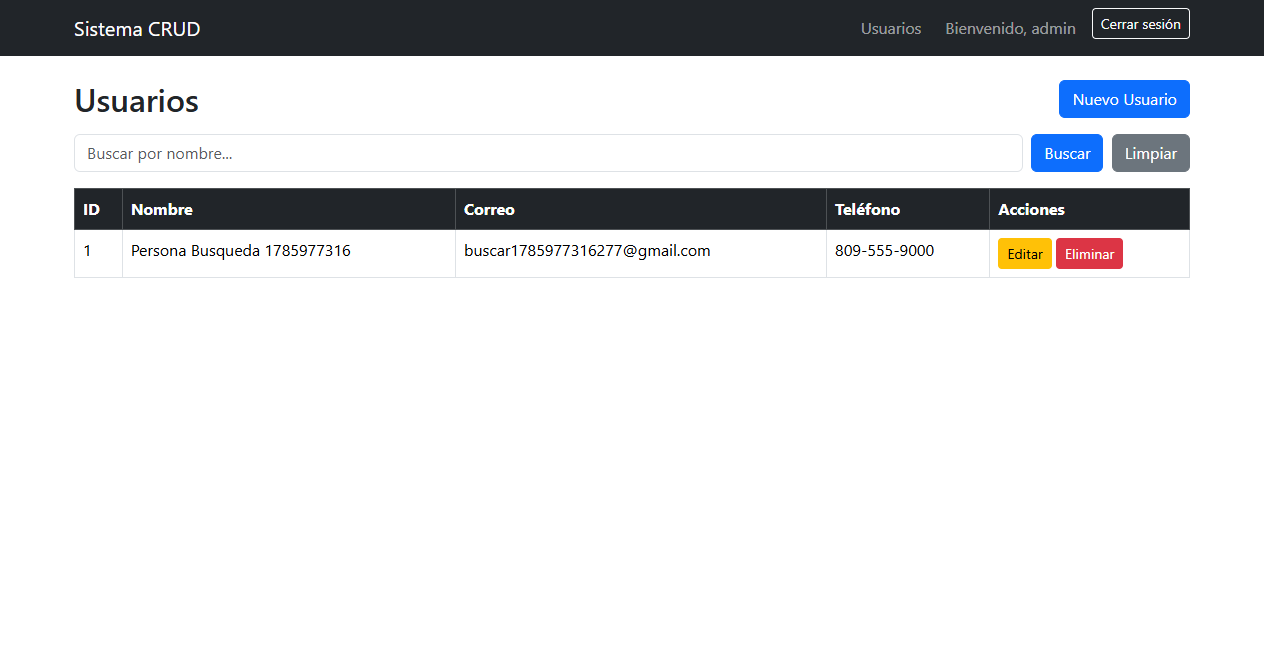
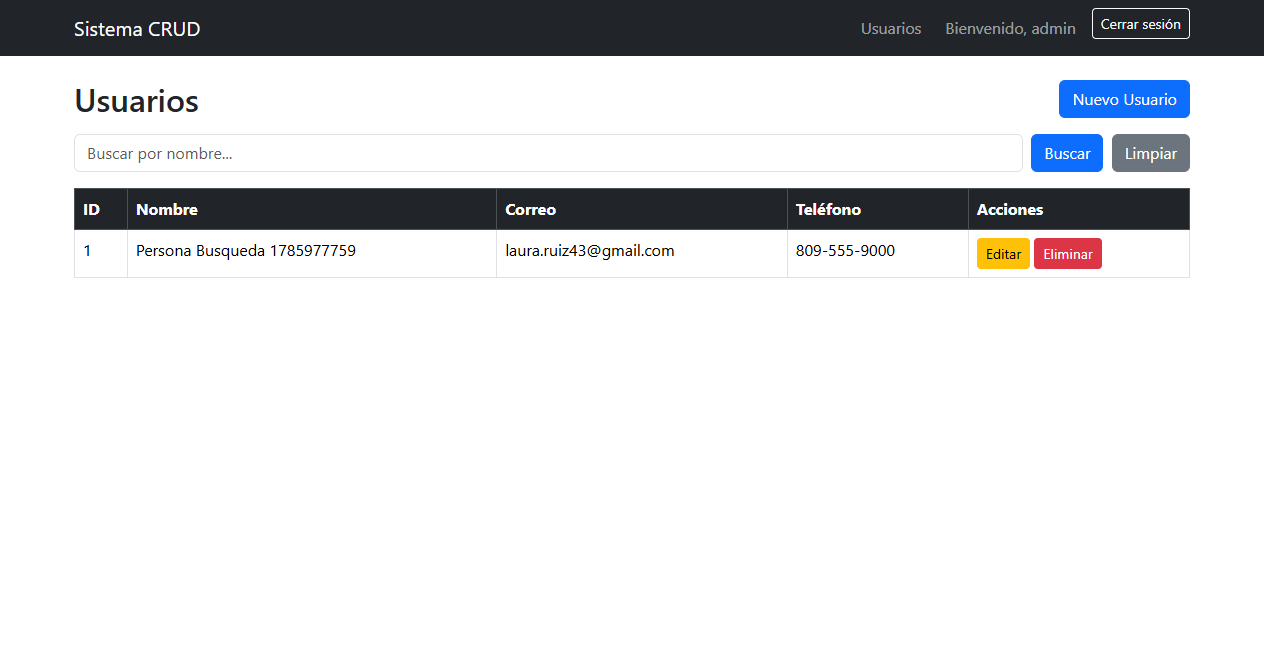
Correos de prueba con nombres reales y regenerar evidencias

diff --git a/report/report.html b/report/report.html
@@ -328,7 +328,7 @@ div.media {
   </head>
   <body>
     <h1 id="title">report.html</h1>
-    <p>Report generated on 05-Aug-2026 at 20:50:33 by <a href="https://pypi.python.org/pypi/pytest-html">pytest-html</a>
+    <p>Report generated on 05-Aug-2026 at 20:57:56 by <a href="https://pypi.python.org/pypi/pytest-html">pytest-html</a>
         v4.2.0</p>
     <div id="environment-header">
       <h2>Environment</h2>
@@ -383,7 +383,7 @@ div.media {
         <h2>Summary</h2>
         <div class="additional-summary prefix">
         </div>
-        <p class="run-count">18 tests took 00:02:12.</p>
+        <p class="run-count">18 tests took 00:02:03.</p>
         <p class="filter">(Un)check the boxes to filter the results.</p>
         <div class="summary__reload">
           <div class="summary__reload__button hidden" onclick="location.reload()">
@@ -431,7 +431,7 @@ div.media {
       </thead>
     </table>
   <footer>
-    <div id="data-container" data-jsonblob="{&#34;environment&#34;: {&#34;Python&#34;: &#34;3.14.6&#34;, &#34;Platform&#34;: &#34;Windows-10-10.0.19045-SP0&#34;, &#34;Packages&#34;: {&#34;pytest&#34;: &#34;9.1.1&#34;, &#34;pluggy&#34;: &#34;1.6.0&#34;}, &#34;Plugins&#34;: {&#34;html&#34;: &#34;4.2.0&#34;, &#34;metadata&#34;: &#34;3.1.1&#34;}}, &#34;tests&#34;: {&#34;tests/test_buscar_usuario.py::TestBuscarUsuario::test_buscar_usuario_encontrado&#34;: [{&#34;extras&#34;: [], &#34;result&#34;: &#34;Passed&#34;, &#34;testId&#34;: &#34;tests/test_buscar_usuario.py::TestBuscarUsuario::test_buscar_usuario_encontrado&#34;, &#34;duration&#34;: &#34;00:00:17&#34;, &#34;resultsTableRow&#34;: [&#34;&lt;td class=\&#34;col-result\&#34;&gt;Passed&lt;/td&gt;&#34;, &#34;&lt;td class=\&#34;col-testId\&#34;&gt;tests/test_buscar_usuario.py::TestBuscarUsuario::test_buscar_usuario_encontrado&lt;/td&gt;&#34;, &#34;&lt;td class=\&#34;col-duration\&#34;&gt;00:00:17&lt;/td&gt;&#34;, &#34;&lt;td class=\&#34;col-links\&#34;&gt;&lt;/td&gt;&#34;], &#34;log&#34;: &#34;No log output captured.&#34;}], &#34;tests/test_buscar_usuario.py::TestBuscarUsuario::test_buscar_usuario_sin_resultados&#34;: [{&#34;extras&#34;: [], &#34;result&#34;: &#34;Passed&#34;, &#34;testId&#34;: &#34;tests/test_buscar_usuario.py::TestBuscarUsuario::test_buscar_usuario_sin_resultados&#34;, &#34;duration&#34;: &#34;00:00:07&#34;, &#34;resultsTableRow&#34;: [&#34;&lt;td class=\&#34;col-result\&#34;&gt;Passed&lt;/td&gt;&#34;, &#34;&lt;td class=\&#34;col-testId\&#34;&gt;tests/test_buscar_usuario.py::TestBuscarUsuario::test_buscar_usuario_sin_resultados&lt;/td&gt;&#34;, &#34;&lt;td class=\&#34;col-duration\&#34;&gt;00:00:07&lt;/td&gt;&#34;, &#34;&lt;td class=\&#34;col-links\&#34;&gt;&lt;/td&gt;&#34;], &#34;log&#34;: &#34;No log output captured.&#34;}], &#34;tests/test_buscar_usuario.py::TestBuscarUsuario::test_busqueda_vacia_muestra_todos&#34;: [{&#34;extras&#34;: [], &#34;result&#34;: &#34;Passed&#34;, &#34;testId&#34;: &#34;tests/test_buscar_usuario.py::TestBuscarUsuario::test_busqueda_vacia_muestra_todos&#34;, &#34;duration&#34;: &#34;00:00:07&#34;, &#34;resultsTableRow&#34;: [&#34;&lt;td class=\&#34;col-result\&#34;&gt;Passed&lt;/td&gt;&#34;, &#34;&lt;td class=\&#34;col-testId\&#34;&gt;tests/test_buscar_usuario.py::TestBuscarUsuario::test_busqueda_vacia_muestra_todos&lt;/td&gt;&#34;, &#34;&lt;td class=\&#34;col-duration\&#34;&gt;00:00:07&lt;/td&gt;&#34;, &#34;&lt;td class=\&#34;col-links\&#34;&gt;&lt;/td&gt;&#34;], &#34;log&#34;: &#34;No log output captured.&#34;}], &#34;tests/test_crear_usuario.py::TestCrearUsuario::test_crear_usuario_correcto&#34;: [{&#34;extras&#34;: [], &#34;result&#34;: &#34;Passed&#34;, &#34;testId&#34;: &#34;tests/test_crear_usuario.py::TestCrearUsuario::test_crear_usuario_correcto&#34;, &#34;duration&#34;: &#34;00:00:07&#34;, &#34;resultsTableRow&#34;: [&#34;&lt;td class=\&#34;col-result\&#34;&gt;Passed&lt;/td&gt;&#34;, &#34;&lt;td class=\&#34;col-testId\&#34;&gt;tests/test_crear_usuario.py::TestCrearUsuario::test_crear_usuario_correcto&lt;/td&gt;&#34;, &#34;&lt;td class=\&#34;col-duration\&#34;&gt;00:00:07&lt;/td&gt;&#34;, &#34;&lt;td class=\&#34;col-links\&#34;&gt;&lt;/td&gt;&#34;], &#34;log&#34;: &#34;No log output captured.&#34;}], &#34;tests/test_crear_usuario.py::TestCrearUsuario::test_crear_usuario_correo_duplicado&#34;: [{&#34;extras&#34;: [], &#34;result&#34;: &#34;Passed&#34;, &#34;testId&#34;: &#34;tests/test_crear_usuario.py::TestCrearUsuario::test_crear_usuario_correo_duplicado&#34;, &#34;duration&#34;: &#34;00:00:07&#34;, &#34;resultsTableRow&#34;: [&#34;&lt;td class=\&#34;col-result\&#34;&gt;Passed&lt;/td&gt;&#34;, &#34;&lt;td class=\&#34;col-testId\&#34;&gt;tests/test_crear_usuario.py::TestCrearUsuario::test_crear_usuario_correo_duplicado&lt;/td&gt;&#34;, &#34;&lt;td class=\&#34;col-duration\&#34;&gt;00:00:07&lt;/td&gt;&#34;, &#34;&lt;td class=\&#34;col-links\&#34;&gt;&lt;/td&gt;&#34;], &#34;log&#34;: &#34;No log output captured.&#34;}], &#34;tests/test_crear_usuario.py::TestCrearUsuario::test_crear_usuario_nombre_vacio&#34;: [{&#34;extras&#34;: [], &#34;result&#34;: &#34;Passed&#34;, &#34;testId&#34;: &#34;tests/test_crear_usuario.py::TestCrearUsuario::test_crear_usuario_nombre_vacio&#34;, &#34;duration&#34;: &#34;00:00:06&#34;, &#34;resultsTableRow&#34;: [&#34;&lt;td class=\&#34;col-result\&#34;&gt;Passed&lt;/td&gt;&#34;, &#34;&lt;td class=\&#34;col-testId\&#34;&gt;tests/test_crear_usuario.py::TestCrearUsuario::test_crear_usuario_nombre_vacio&lt;/td&gt;&#34;, &#34;&lt;td class=\&#34;col-duration\&#34;&gt;00:00:06&lt;/td&gt;&#34;, &#34;&lt;td class=\&#34;col-links\&#34;&gt;&lt;/td&gt;&#34;], &#34;log&#34;: &#34;No log output captured.&#34;}], &#34;tests/test_editar_usuario.py::TestEditarUsuario::test_editar_usuario_correcto&#34;: [{&#34;extras&#34;: [], &#34;result&#34;: &#34;Passed&#34;, &#34;testId&#34;: &#34;tests/test_editar_usuario.py::TestEditarUsuario::test_editar_usuario_correcto&#34;, &#34;duration&#34;: &#34;00:00:07&#34;, &#34;resultsTableRow&#34;: [&#34;&lt;td class=\&#34;col-result\&#34;&gt;Passed&lt;/td&gt;&#34;, &#34;&lt;td class=\&#34;col-testId\&#34;&gt;tests/test_editar_usuario.py::TestEditarUsuario::test_editar_usuario_correcto&lt;/td&gt;&#34;, &#34;&lt;td class=\&#34;col-duration\&#34;&gt;00:00:07&lt;/td&gt;&#34;, &#34;&lt;td class=\&#34;col-links\&#34;&gt;&lt;/td&gt;&#34;], &#34;log&#34;: &#34;No log output captured.&#34;}], &#34;tests/test_editar_usuario.py::TestEditarUsuario::test_editar_usuario_correo_duplicado&#34;: [{&#34;extras&#34;: [], &#34;result&#34;: &#34;Passed&#34;, &#34;testId&#34;: &#34;tests/test_editar_usuario.py::TestEditarUsuario::test_editar_usuario_correo_duplicado&#34;, &#34;duration&#34;: &#34;00:00:08&#34;, &#34;resultsTableRow&#34;: [&#34;&lt;td class=\&#34;col-result\&#34;&gt;Passed&lt;/td&gt;&#34;, &#34;&lt;td class=\&#34;col-testId\&#34;&gt;tests/test_editar_usuario.py::TestEditarUsuario::test_editar_usuario_correo_duplicado&lt;/td&gt;&#34;, &#34;&lt;td class=\&#34;col-duration\&#34;&gt;00:00:08&lt;/td&gt;&#34;, &#34;&lt;td class=\&#34;col-links\&#34;&gt;&lt;/td&gt;&#34;], &#34;log&#34;: &#34;No log output captured.&#34;}], &#34;tests/test_editar_usuario.py::TestEditarUsuario::test_editar_usuario_nombre_vacio&#34;: [{&#34;extras&#34;: [], &#34;result&#34;: &#34;Passed&#34;, &#34;testId&#34;: &#34;tests/test_editar_usuario.py::TestEditarUsuario::test_editar_usuario_nombre_vacio&#34;, &#34;duration&#34;: &#34;00:00:07&#34;, &#34;resultsTableRow&#34;: [&#34;&lt;td class=\&#34;col-result\&#34;&gt;Passed&lt;/td&gt;&#34;, &#34;&lt;td class=\&#34;col-testId\&#34;&gt;tests/test_editar_usuario.py::TestEditarUsuario::test_editar_usuario_nombre_vacio&lt;/td&gt;&#34;, &#34;&lt;td class=\&#34;col-duration\&#34;&gt;00:00:07&lt;/td&gt;&#34;, &#34;&lt;td class=\&#34;col-links\&#34;&gt;&lt;/td&gt;&#34;], &#34;log&#34;: &#34;No log output captured.&#34;}], &#34;tests/test_eliminar_usuario.py::TestEliminarUsuario::test_eliminar_usuario_correcto&#34;: [{&#34;extras&#34;: [], &#34;result&#34;: &#34;Passed&#34;, &#34;testId&#34;: &#34;tests/test_eliminar_usuario.py::TestEliminarUsuario::test_eliminar_usuario_correcto&#34;, &#34;duration&#34;: &#34;00:00:07&#34;, &#34;resultsTableRow&#34;: [&#34;&lt;td class=\&#34;col-result\&#34;&gt;Passed&lt;/td&gt;&#34;, &#34;&lt;td class=\&#34;col-testId\&#34;&gt;tests/test_eliminar_usuario.py::TestEliminarUsuario::test_eliminar_usuario_correcto&lt;/td&gt;&#34;, &#34;&lt;td class=\&#34;col-duration\&#34;&gt;00:00:07&lt;/td&gt;&#34;, &#34;&lt;td class=\&#34;col-links\&#34;&gt;&lt;/td&gt;&#34;], &#34;log&#34;: &#34;No log output captured.&#34;}], &#34;tests/test_eliminar_usuario.py::TestEliminarUsuario::test_eliminar_usuario_inexistente&#34;: [{&#34;extras&#34;: [], &#34;result&#34;: &#34;Passed&#34;, &#34;testId&#34;: &#34;tests/test_eliminar_usuario.py::TestEliminarUsuario::test_eliminar_usuario_inexistente&#34;, &#34;duration&#34;: &#34;00:00:06&#34;, &#34;resultsTableRow&#34;: [&#34;&lt;td class=\&#34;col-result\&#34;&gt;Passed&lt;/td&gt;&#34;, &#34;&lt;td class=\&#34;col-testId\&#34;&gt;tests/test_eliminar_usuario.py::TestEliminarUsuario::test_eliminar_usuario_inexistente&lt;/td&gt;&#34;, &#34;&lt;td class=\&#34;col-duration\&#34;&gt;00:00:06&lt;/td&gt;&#34;, &#34;&lt;td class=\&#34;col-links\&#34;&gt;&lt;/td&gt;&#34;], &#34;log&#34;: &#34;No log output captured.&#34;}], &#34;tests/test_eliminar_usuario.py::TestEliminarUsuario::test_eliminar_usuario_cancelado&#34;: [{&#34;extras&#34;: [], &#34;result&#34;: &#34;Passed&#34;, &#34;testId&#34;: &#34;tests/test_eliminar_usuario.py::TestEliminarUsuario::test_eliminar_usuario_cancelado&#34;, &#34;duration&#34;: &#34;00:00:06&#34;, &#34;resultsTableRow&#34;: [&#34;&lt;td class=\&#34;col-result\&#34;&gt;Passed&lt;/td&gt;&#34;, &#34;&lt;td class=\&#34;col-testId\&#34;&gt;tests/test_eliminar_usuario.py::TestEliminarUsuario::test_eliminar_usuario_cancelado&lt;/td&gt;&#34;, &#34;&lt;td class=\&#34;col-duration\&#34;&gt;00:00:06&lt;/td&gt;&#34;, &#34;&lt;td class=\&#34;col-links\&#34;&gt;&lt;/td&gt;&#34;], &#34;log&#34;: &#34;No log output captured.&#34;}], &#34;tests/test_listar_usuarios.py::TestListarUsuarios::test_listar_usuario_creado&#34;: [{&#34;extras&#34;: [], &#34;result&#34;: &#34;Passed&#34;, &#34;testId&#34;: &#34;tests/test_listar_usuarios.py::TestListarUsuarios::test_listar_usuario_creado&#34;, &#34;duration&#34;: &#34;00:00:07&#34;, &#34;resultsTableRow&#34;: [&#34;&lt;td class=\&#34;col-result\&#34;&gt;Passed&lt;/td&gt;&#34;, &#34;&lt;td class=\&#34;col-testId\&#34;&gt;tests/test_listar_usuarios.py::TestListarUsuarios::test_listar_usuario_creado&lt;/td&gt;&#34;, &#34;&lt;td class=\&#34;col-duration\&#34;&gt;00:00:07&lt;/td&gt;&#34;, &#34;&lt;td class=\&#34;col-links\&#34;&gt;&lt;/td&gt;&#34;], &#34;log&#34;: &#34;No log output captured.&#34;}], &#34;tests/test_listar_usuarios.py::TestListarUsuarios::test_listar_sin_resultados&#34;: [{&#34;extras&#34;: [], &#34;result&#34;: &#34;Passed&#34;, &#34;testId&#34;: &#34;tests/test_listar_usuarios.py::TestListarUsuarios::test_listar_sin_resultados&#34;, &#34;duration&#34;: &#34;00:00:06&#34;, &#34;resultsTableRow&#34;: [&#34;&lt;td class=\&#34;col-result\&#34;&gt;Passed&lt;/td&gt;&#34;, &#34;&lt;td class=\&#34;col-testId\&#34;&gt;tests/test_listar_usuarios.py::TestListarUsuarios::test_listar_sin_resultados&lt;/td&gt;&#34;, &#34;&lt;td class=\&#34;col-duration\&#34;&gt;00:00:06&lt;/td&gt;&#34;, &#34;&lt;td class=\&#34;col-links\&#34;&gt;&lt;/td&gt;&#34;], &#34;log&#34;: &#34;No log output captured.&#34;}], &#34;tests/test_listar_usuarios.py::TestListarUsuarios::test_listar_busqueda_extremadamente_larga&#34;: [{&#34;extras&#34;: [], &#34;result&#34;: &#34;Passed&#34;, &#34;testId&#34;: &#34;tests/test_listar_usuarios.py::TestListarUsuarios::test_listar_busqueda_extremadamente_larga&#34;, &#34;duration&#34;: &#34;00:00:06&#34;, &#34;resultsTableRow&#34;: [&#34;&lt;td class=\&#34;col-result\&#34;&gt;Passed&lt;/td&gt;&#34;, &#34;&lt;td class=\&#34;col-testId\&#34;&gt;tests/test_listar_usuarios.py::TestListarUsuarios::test_listar_busqueda_extremadamente_larga&lt;/td&gt;&#34;, &#34;&lt;td class=\&#34;col-duration\&#34;&gt;00:00:06&lt;/td&gt;&#34;, &#34;&lt;td class=\&#34;col-links\&#34;&gt;&lt;/td&gt;&#34;], &#34;log&#34;: &#34;No log output captured.&#34;}], &#34;tests/test_login.py::TestLogin::test_login_correcto&#34;: [{&#34;extras&#34;: [], &#34;result&#34;: &#34;Passed&#34;, &#34;testId&#34;: &#34;tests/test_login.py::TestLogin::test_login_correcto&#34;, &#34;duration&#34;: &#34;00:00:06&#34;, &#34;resultsTableRow&#34;: [&#34;&lt;td class=\&#34;col-result\&#34;&gt;Passed&lt;/td&gt;&#34;, &#34;&lt;td class=\&#34;col-testId\&#34;&gt;tests/test_login.py::TestLogin::test_login_correcto&lt;/td&gt;&#34;, &#34;&lt;td class=\&#34;col-duration\&#34;&gt;00:00:06&lt;/td&gt;&#34;, &#34;&lt;td class=\&#34;col-links\&#34;&gt;&lt;/td&gt;&#34;], &#34;log&#34;: &#34;No log output captured.&#34;}], &#34;tests/test_login.py::TestLogin::test_login_incorrecto&#34;: [{&#34;extras&#34;: [], &#34;result&#34;: &#34;Passed&#34;, &#34;testId&#34;: &#34;tests/test_login.py::TestLogin::test_login_incorrecto&#34;, &#34;duration&#34;: &#34;00:00:06&#34;, &#34;resultsTableRow&#34;: [&#34;&lt;td class=\&#34;col-result\&#34;&gt;Passed&lt;/td&gt;&#34;, &#34;&lt;td class=\&#34;col-testId\&#34;&gt;tests/test_login.py::TestLogin::test_login_incorrecto&lt;/td&gt;&#34;, &#34;&lt;td class=\&#34;col-duration\&#34;&gt;00:00:06&lt;/td&gt;&#34;, &#34;&lt;td class=\&#34;col-links\&#34;&gt;&lt;/td&gt;&#34;], &#34;log&#34;: &#34;No log output captured.&#34;}], &#34;tests/test_login.py::TestLogin::test_login_campos_vacios&#34;: [{&#34;extras&#34;: [], &#34;result&#34;: &#34;Passed&#34;, &#34;testId&#34;: &#34;tests/test_login.py::TestLogin::test_login_campos_vacios&#34;, &#34;duration&#34;: &#34;00:00:06&#34;, &#34;resultsTableRow&#34;: [&#34;&lt;td class=\&#34;col-result\&#34;&gt;Passed&lt;/td&gt;&#34;, &#34;&lt;td class=\&#34;col-testId\&#34;&gt;tests/test_login.py::TestLogin::test_login_campos_vacios&lt;/td&gt;&#34;, &#34;&lt;td class=\&#34;col-duration\&#34;&gt;00:00:06&lt;/td&gt;&#34;, &#34;&lt;td class=\&#34;col-links\&#34;&gt;&lt;/td&gt;&#34;], &#34;log&#34;: &#34;No log output captured.&#34;}]}, &#34;renderCollapsed&#34;: [&#34;passed&#34;], &#34;initialSort&#34;: &#34;result&#34;, &#34;title&#34;: &#34;report.html&#34;}"></div>
+    <div id="data-container" data-jsonblob="{&#34;environment&#34;: {&#34;Python&#34;: &#34;3.14.6&#34;, &#34;Platform&#34;: &#34;Windows-10-10.0.19045-SP0&#34;, &#34;Packages&#34;: {&#34;pytest&#34;: &#34;9.1.1&#34;, &#34;pluggy&#34;: &#34;1.6.0&#34;}, &#34;Plugins&#34;: {&#34;html&#34;: &#34;4.2.0&#34;, &#34;metadata&#34;: &#34;3.1.1&#34;}}, &#34;tests&#34;: {&#34;tests/test_buscar_usuario.py::TestBuscarUsuario::test_buscar_usuario_encontrado&#34;: [{&#34;extras&#34;: [], &#34;result&#34;: &#34;Passed&#34;, &#34;testId&#34;: &#34;tests/test_buscar_usuario.py::TestBuscarUsuario::test_buscar_usuario_encontrado&#34;, &#34;duration&#34;: &#34;00:00:09&#34;, &#34;resultsTableRow&#34;: [&#34;&lt;td class=\&#34;col-result\&#34;&gt;Passed&lt;/td&gt;&#34;, &#34;&lt;td class=\&#34;col-testId\&#34;&gt;tests/test_buscar_usuario.py::TestBuscarUsuario::test_buscar_usuario_encontrado&lt;/td&gt;&#34;, &#34;&lt;td class=\&#34;col-duration\&#34;&gt;00:00:09&lt;/td&gt;&#34;, &#34;&lt;td class=\&#34;col-links\&#34;&gt;&lt;/td&gt;&#34;], &#34;log&#34;: &#34;No log output captured.&#34;}], &#34;tests/test_buscar_usuario.py::TestBuscarUsuario::test_buscar_usuario_sin_resultados&#34;: [{&#34;extras&#34;: [], &#34;result&#34;: &#34;Passed&#34;, &#34;testId&#34;: &#34;tests/test_buscar_usuario.py::TestBuscarUsuario::test_buscar_usuario_sin_resultados&#34;, &#34;duration&#34;: &#34;00:00:06&#34;, &#34;resultsTableRow&#34;: [&#34;&lt;td class=\&#34;col-result\&#34;&gt;Passed&lt;/td&gt;&#34;, &#34;&lt;td class=\&#34;col-testId\&#34;&gt;tests/test_buscar_usuario.py::TestBuscarUsuario::test_buscar_usuario_sin_resultados&lt;/td&gt;&#34;, &#34;&lt;td class=\&#34;col-duration\&#34;&gt;00:00:06&lt;/td&gt;&#34;, &#34;&lt;td class=\&#34;col-links\&#34;&gt;&lt;/td&gt;&#34;], &#34;log&#34;: &#34;No log output captured.&#34;}], &#34;tests/test_buscar_usuario.py::TestBuscarUsuario::test_busqueda_vacia_muestra_todos&#34;: [{&#34;extras&#34;: [], &#34;result&#34;: &#34;Passed&#34;, &#34;testId&#34;: &#34;tests/test_buscar_usuario.py::TestBuscarUsuario::test_busqueda_vacia_muestra_todos&#34;, &#34;duration&#34;: &#34;00:00:06&#34;, &#34;resultsTableRow&#34;: [&#34;&lt;td class=\&#34;col-result\&#34;&gt;Passed&lt;/td&gt;&#34;, &#34;&lt;td class=\&#34;col-testId\&#34;&gt;tests/test_buscar_usuario.py::TestBuscarUsuario::test_busqueda_vacia_muestra_todos&lt;/td&gt;&#34;, &#34;&lt;td class=\&#34;col-duration\&#34;&gt;00:00:06&lt;/td&gt;&#34;, &#34;&lt;td class=\&#34;col-links\&#34;&gt;&lt;/td&gt;&#34;], &#34;log&#34;: &#34;No log output captured.&#34;}], &#34;tests/test_crear_usuario.py::TestCrearUsuario::test_crear_usuario_correcto&#34;: [{&#34;extras&#34;: [], &#34;result&#34;: &#34;Passed&#34;, &#34;testId&#34;: &#34;tests/test_crear_usuario.py::TestCrearUsuario::test_crear_usuario_correcto&#34;, &#34;duration&#34;: &#34;00:00:07&#34;, &#34;resultsTableRow&#34;: [&#34;&lt;td class=\&#34;col-result\&#34;&gt;Passed&lt;/td&gt;&#34;, &#34;&lt;td class=\&#34;col-testId\&#34;&gt;tests/test_crear_usuario.py::TestCrearUsuario::test_crear_usuario_correcto&lt;/td&gt;&#34;, &#34;&lt;td class=\&#34;col-duration\&#34;&gt;00:00:07&lt;/td&gt;&#34;, &#34;&lt;td class=\&#34;col-links\&#34;&gt;&lt;/td&gt;&#34;], &#34;log&#34;: &#34;No log output captured.&#34;}], &#34;tests/test_crear_usuario.py::TestCrearUsuario::test_crear_usuario_correo_duplicado&#34;: [{&#34;extras&#34;: [], &#34;result&#34;: &#34;Passed&#34;, &#34;testId&#34;: &#34;tests/test_crear_usuario.py::TestCrearUsuario::test_crear_usuario_correo_duplicado&#34;, &#34;duration&#34;: &#34;00:00:07&#34;, &#34;resultsTableRow&#34;: [&#34;&lt;td class=\&#34;col-result\&#34;&gt;Passed&lt;/td&gt;&#34;, &#34;&lt;td class=\&#34;col-testId\&#34;&gt;tests/test_crear_usuario.py::TestCrearUsuario::test_crear_usuario_correo_duplicado&lt;/td&gt;&#34;, &#34;&lt;td class=\&#34;col-duration\&#34;&gt;00:00:07&lt;/td&gt;&#34;, &#34;&lt;td class=\&#34;col-links\&#34;&gt;&lt;/td&gt;&#34;], &#34;log&#34;: &#34;No log output captured.&#34;}], &#34;tests/test_crear_usuario.py::TestCrearUsuario::test_crear_usuario_nombre_vacio&#34;: [{&#34;extras&#34;: [], &#34;result&#34;: &#34;Passed&#34;, &#34;testId&#34;: &#34;tests/test_crear_usuario.py::TestCrearUsuario::test_crear_usuario_nombre_vacio&#34;, &#34;duration&#34;: &#34;00:00:06&#34;, &#34;resultsTableRow&#34;: [&#34;&lt;td class=\&#34;col-result\&#34;&gt;Passed&lt;/td&gt;&#34;, &#34;&lt;td class=\&#34;col-testId\&#34;&gt;tests/test_crear_usuario.py::TestCrearUsuario::test_crear_usuario_nombre_vacio&lt;/td&gt;&#34;, &#34;&lt;td class=\&#34;col-duration\&#34;&gt;00:00:06&lt;/td&gt;&#34;, &#34;&lt;td class=\&#34;col-links\&#34;&gt;&lt;/td&gt;&#34;], &#34;log&#34;: &#34;No log output captured.&#34;}], &#34;tests/test_editar_usuario.py::TestEditarUsuario::test_editar_usuario_correcto&#34;: [{&#34;extras&#34;: [], &#34;result&#34;: &#34;Passed&#34;, &#34;testId&#34;: &#34;tests/test_editar_usuario.py::TestEditarUsuario::test_editar_usuario_correcto&#34;, &#34;duration&#34;: &#34;00:00:07&#34;, &#34;resultsTableRow&#34;: [&#34;&lt;td class=\&#34;col-result\&#34;&gt;Passed&lt;/td&gt;&#34;, &#34;&lt;td class=\&#34;col-testId\&#34;&gt;tests/test_editar_usuario.py::TestEditarUsuario::test_editar_usuario_correcto&lt;/td&gt;&#34;, &#34;&lt;td class=\&#34;col-duration\&#34;&gt;00:00:07&lt;/td&gt;&#34;, &#34;&lt;td class=\&#34;col-links\&#34;&gt;&lt;/td&gt;&#34;], &#34;log&#34;: &#34;No log output captured.&#34;}], &#34;tests/test_editar_usuario.py::TestEditarUsuario::test_editar_usuario_correo_duplicado&#34;: [{&#34;extras&#34;: [], &#34;result&#34;: &#34;Passed&#34;, &#34;testId&#34;: &#34;tests/test_editar_usuario.py::TestEditarUsuario::test_editar_usuario_correo_duplicado&#34;, &#34;duration&#34;: &#34;00:00:08&#34;, &#34;resultsTableRow&#34;: [&#34;&lt;td class=\&#34;col-result\&#34;&gt;Passed&lt;/td&gt;&#34;, &#34;&lt;td class=\&#34;col-testId\&#34;&gt;tests/test_editar_usuario.py::TestEditarUsuario::test_editar_usuario_correo_duplicado&lt;/td&gt;&#34;, &#34;&lt;td class=\&#34;col-duration\&#34;&gt;00:00:08&lt;/td&gt;&#34;, &#34;&lt;td class=\&#34;col-links\&#34;&gt;&lt;/td&gt;&#34;], &#34;log&#34;: &#34;No log output captured.&#34;}], &#34;tests/test_editar_usuario.py::TestEditarUsuario::test_editar_usuario_nombre_vacio&#34;: [{&#34;extras&#34;: [], &#34;result&#34;: &#34;Passed&#34;, &#34;testId&#34;: &#34;tests/test_editar_usuario.py::TestEditarUsuario::test_editar_usuario_nombre_vacio&#34;, &#34;duration&#34;: &#34;00:00:07&#34;, &#34;resultsTableRow&#34;: [&#34;&lt;td class=\&#34;col-result\&#34;&gt;Passed&lt;/td&gt;&#34;, &#34;&lt;td class=\&#34;col-testId\&#34;&gt;tests/test_editar_usuario.py::TestEditarUsuario::test_editar_usuario_nombre_vacio&lt;/td&gt;&#34;, &#34;&lt;td class=\&#34;col-duration\&#34;&gt;00:00:07&lt;/td&gt;&#34;, &#34;&lt;td class=\&#34;col-links\&#34;&gt;&lt;/td&gt;&#34;], &#34;log&#34;: &#34;No log output captured.&#34;}], &#34;tests/test_eliminar_usuario.py::TestEliminarUsuario::test_eliminar_usuario_correcto&#34;: [{&#34;extras&#34;: [], &#34;result&#34;: &#34;Passed&#34;, &#34;testId&#34;: &#34;tests/test_eliminar_usuario.py::TestEliminarUsuario::test_eliminar_usuario_correcto&#34;, &#34;duration&#34;: &#34;00:00:07&#34;, &#34;resultsTableRow&#34;: [&#34;&lt;td class=\&#34;col-result\&#34;&gt;Passed&lt;/td&gt;&#34;, &#34;&lt;td class=\&#34;col-testId\&#34;&gt;tests/test_eliminar_usuario.py::TestEliminarUsuario::test_eliminar_usuario_correcto&lt;/td&gt;&#34;, &#34;&lt;td class=\&#34;col-duration\&#34;&gt;00:00:07&lt;/td&gt;&#34;, &#34;&lt;td class=\&#34;col-links\&#34;&gt;&lt;/td&gt;&#34;], &#34;log&#34;: &#34;No log output captured.&#34;}], &#34;tests/test_eliminar_usuario.py::TestEliminarUsuario::test_eliminar_usuario_inexistente&#34;: [{&#34;extras&#34;: [], &#34;result&#34;: &#34;Passed&#34;, &#34;testId&#34;: &#34;tests/test_eliminar_usuario.py::TestEliminarUsuario::test_eliminar_usuario_inexistente&#34;, &#34;duration&#34;: &#34;00:00:06&#34;, &#34;resultsTableRow&#34;: [&#34;&lt;td class=\&#34;col-result\&#34;&gt;Passed&lt;/td&gt;&#34;, &#34;&lt;td class=\&#34;col-testId\&#34;&gt;tests/test_eliminar_usuario.py::TestEliminarUsuario::test_eliminar_usuario_inexistente&lt;/td&gt;&#34;, &#34;&lt;td class=\&#34;col-duration\&#34;&gt;00:00:06&lt;/td&gt;&#34;, &#34;&lt;td class=\&#34;col-links\&#34;&gt;&lt;/td&gt;&#34;], &#34;log&#34;: &#34;No log output captured.&#34;}], &#34;tests/test_eliminar_usuario.py::TestEliminarUsuario::test_eliminar_usuario_cancelado&#34;: [{&#34;extras&#34;: [], &#34;result&#34;: &#34;Passed&#34;, &#34;testId&#34;: &#34;tests/test_eliminar_usuario.py::TestEliminarUsuario::test_eliminar_usuario_cancelado&#34;, &#34;duration&#34;: &#34;00:00:07&#34;, &#34;resultsTableRow&#34;: [&#34;&lt;td class=\&#34;col-result\&#34;&gt;Passed&lt;/td&gt;&#34;, &#34;&lt;td class=\&#34;col-testId\&#34;&gt;tests/test_eliminar_usuario.py::TestEliminarUsuario::test_eliminar_usuario_cancelado&lt;/td&gt;&#34;, &#34;&lt;td class=\&#34;col-duration\&#34;&gt;00:00:07&lt;/td&gt;&#34;, &#34;&lt;td class=\&#34;col-links\&#34;&gt;&lt;/td&gt;&#34;], &#34;log&#34;: &#34;No log output captured.&#34;}], &#34;tests/test_listar_usuarios.py::TestListarUsuarios::test_listar_usuario_creado&#34;: [{&#34;extras&#34;: [], &#34;result&#34;: &#34;Passed&#34;, &#34;testId&#34;: &#34;tests/test_listar_usuarios.py::TestListarUsuarios::test_listar_usuario_creado&#34;, &#34;duration&#34;: &#34;00:00:06&#34;, &#34;resultsTableRow&#34;: [&#34;&lt;td class=\&#34;col-result\&#34;&gt;Passed&lt;/td&gt;&#34;, &#34;&lt;td class=\&#34;col-testId\&#34;&gt;tests/test_listar_usuarios.py::TestListarUsuarios::test_listar_usuario_creado&lt;/td&gt;&#34;, &#34;&lt;td class=\&#34;col-duration\&#34;&gt;00:00:06&lt;/td&gt;&#34;, &#34;&lt;td class=\&#34;col-links\&#34;&gt;&lt;/td&gt;&#34;], &#34;log&#34;: &#34;No log output captured.&#34;}], &#34;tests/test_listar_usuarios.py::TestListarUsuarios::test_listar_sin_resultados&#34;: [{&#34;extras&#34;: [], &#34;result&#34;: &#34;Passed&#34;, &#34;testId&#34;: &#34;tests/test_listar_usuarios.py::TestListarUsuarios::test_listar_sin_resultados&#34;, &#34;duration&#34;: &#34;00:00:06&#34;, &#34;resultsTableRow&#34;: [&#34;&lt;td class=\&#34;col-result\&#34;&gt;Passed&lt;/td&gt;&#34;, &#34;&lt;td class=\&#34;col-testId\&#34;&gt;tests/test_listar_usuarios.py::TestListarUsuarios::test_listar_sin_resultados&lt;/td&gt;&#34;, &#34;&lt;td class=\&#34;col-duration\&#34;&gt;00:00:06&lt;/td&gt;&#34;, &#34;&lt;td class=\&#34;col-links\&#34;&gt;&lt;/td&gt;&#34;], &#34;log&#34;: &#34;No log output captured.&#34;}], &#34;tests/test_listar_usuarios.py::TestListarUsuarios::test_listar_busqueda_extremadamente_larga&#34;: [{&#34;extras&#34;: [], &#34;result&#34;: &#34;Passed&#34;, &#34;testId&#34;: &#34;tests/test_listar_usuarios.py::TestListarUsuarios::test_listar_busqueda_extremadamente_larga&#34;, &#34;duration&#34;: &#34;00:00:06&#34;, &#34;resultsTableRow&#34;: [&#34;&lt;td class=\&#34;col-result\&#34;&gt;Passed&lt;/td&gt;&#34;, &#34;&lt;td class=\&#34;col-testId\&#34;&gt;tests/test_listar_usuarios.py::TestListarUsuarios::test_listar_busqueda_extremadamente_larga&lt;/td&gt;&#34;, &#34;&lt;td class=\&#34;col-duration\&#34;&gt;00:00:06&lt;/td&gt;&#34;, &#34;&lt;td class=\&#34;col-links\&#34;&gt;&lt;/td&gt;&#34;], &#34;log&#34;: &#34;No log output captured.&#34;}], &#34;tests/test_login.py::TestLogin::test_login_correcto&#34;: [{&#34;extras&#34;: [], &#34;result&#34;: &#34;Passed&#34;, &#34;testId&#34;: &#34;tests/test_login.py::TestLogin::test_login_correcto&#34;, &#34;duration&#34;: &#34;00:00:06&#34;, &#34;resultsTableRow&#34;: [&#34;&lt;td class=\&#34;col-result\&#34;&gt;Passed&lt;/td&gt;&#34;, &#34;&lt;td class=\&#34;col-testId\&#34;&gt;tests/test_login.py::TestLogin::test_login_correcto&lt;/td&gt;&#34;, &#34;&lt;td class=\&#34;col-duration\&#34;&gt;00:00:06&lt;/td&gt;&#34;, &#34;&lt;td class=\&#34;col-links\&#34;&gt;&lt;/td&gt;&#34;], &#34;log&#34;: &#34;No log output captured.&#34;}], &#34;tests/test_login.py::TestLogin::test_login_incorrecto&#34;: [{&#34;extras&#34;: [], &#34;result&#34;: &#34;Passed&#34;, &#34;testId&#34;: &#34;tests/test_login.py::TestLogin::test_login_incorrecto&#34;, &#34;duration&#34;: &#34;00:00:07&#34;, &#34;resultsTableRow&#34;: [&#34;&lt;td class=\&#34;col-result\&#34;&gt;Passed&lt;/td&gt;&#34;, &#34;&lt;td class=\&#34;col-testId\&#34;&gt;tests/test_login.py::TestLogin::test_login_incorrecto&lt;/td&gt;&#34;, &#34;&lt;td class=\&#34;col-duration\&#34;&gt;00:00:07&lt;/td&gt;&#34;, &#34;&lt;td class=\&#34;col-links\&#34;&gt;&lt;/td&gt;&#34;], &#34;log&#34;: &#34;No log output captured.&#34;}], &#34;tests/test_login.py::TestLogin::test_login_campos_vacios&#34;: [{&#34;extras&#34;: [], &#34;result&#34;: &#34;Passed&#34;, &#34;testId&#34;: &#34;tests/test_login.py::TestLogin::test_login_campos_vacios&#34;, &#34;duration&#34;: &#34;00:00:06&#34;, &#34;resultsTableRow&#34;: [&#34;&lt;td class=\&#34;col-result\&#34;&gt;Passed&lt;/td&gt;&#34;, &#34;&lt;td class=\&#34;col-testId\&#34;&gt;tests/test_login.py::TestLogin::test_login_campos_vacios&lt;/td&gt;&#34;, &#34;&lt;td class=\&#34;col-duration\&#34;&gt;00:00:06&lt;/td&gt;&#34;, &#34;&lt;td class=\&#34;col-links\&#34;&gt;&lt;/td&gt;&#34;], &#34;log&#34;: &#34;No log output captured.&#34;}]}, &#34;renderCollapsed&#34;: [&#34;passed&#34;], &#34;initialSort&#34;: &#34;result&#34;, &#34;title&#34;: &#34;report.html&#34;}"></div>
     <script>
       (function(){function r(e,n,t){function o(i,f){if(!n[i]){if(!e[i]){var c="function"==typeof require&&require;if(!f&&c)return c(i,!0);if(u)return u(i,!0);var a=new Error("Cannot find module '"+i+"'");throw a.code="MODULE_NOT_FOUND",a}var p=n[i]={exports:{}};e[i][0].call(p.exports,function(r){var n=e[i][1][r];return o(n||r)},p,p.exports,r,e,n,t)}return n[i].exports}for(var u="function"==typeof require&&require,i=0;i<t.length;i++)o(t[i]);return o}return r})()({1:[function(require,module,exports){
 const { getCollapsedCategory, setCollapsedIds } = require('./storage.js')

diff --git a/tests/test_crear_usuario.py b/tests/test_crear_usuario.py
@@ -1,11 +1,6 @@
-import time
 import pytest
 from selenium.webdriver.common.by import By
-from conftest import BASE_URL, logged_in, wait_for_text, wait_for_element, submit_force, click_submit
-
-
-def unique_email(prefix="nuevo"):
-    return f"{prefix}{int(time.time() * 1000)}@gmail.com"
+from conftest import BASE_URL, logged_in, wait_for_text, wait_for_element, submit_force, click_submit, correo_unico
 
 
 @pytest.mark.usefixtures("logged_in")
@@ -20,7 +15,7 @@ class TestCrearUsuario:
         click_submit(driver)
 
     def test_crear_usuario_correcto(self, driver):
-        correo = unique_email()
+        correo = correo_unico()
         self._crear(driver, "Nuevo Usuario", correo, "809-555-1111")
         wait_for_text(driver, "Usuario creado exitosamente.")
         driver.get(f"{BASE_URL}/usuarios?q=Nuevo Usuario")
@@ -29,14 +24,14 @@ class TestCrearUsuario:
         assert correo in body
 
     def test_crear_usuario_correo_duplicado(self, driver):
-        correo = unique_email()
+        correo = correo_unico()
         self._crear(driver, "Primer Usuario", correo, "809-555-2222")
         wait_for_text(driver, "Usuario creado exitosamente.")
         self._crear(driver, "Segundo Usuario", correo, "809-555-3333")
         wait_for_text(driver, "El correo ya está registrado.")
 
     def test_crear_usuario_nombre_vacio(self, driver):
-        correo = unique_email()
+        correo = correo_unico()
         driver.get(f"{BASE_URL}/usuarios/crear")
         wait_for_element(driver, By.ID, "correo")
         driver.find_element(By.ID, "correo").send_keys(correo)

diff --git a/tests/test_editar_usuario.py b/tests/test_editar_usuario.py
@@ -1,7 +1,7 @@
 import time
 import pytest
 from selenium.webdriver.common.by import By
-from conftest import BASE_URL, logged_in, submit_force, wait_for_text, wait_for_element, click_submit
+from conftest import BASE_URL, logged_in, submit_force, wait_for_text, wait_for_element, click_submit, correo_unico
 
 
 def unique_suffix():
@@ -31,7 +31,7 @@ class TestEditarUsuario:
 
     def test_editar_usuario_correcto(self, driver):
         suf = unique_suffix()
-        correo = f"editar{suf}@gmail.com"
+        correo = correo_unico()
         nombre_original = f"Nombre Original {suf}"
         nombre_editado = f"Nombre Editado {suf}"
         self._crear(driver, nombre_original, correo, "809-555-1234")
@@ -47,8 +47,8 @@ class TestEditarUsuario:
 
     def test_editar_usuario_correo_duplicado(self, driver):
         suf = unique_suffix()
-        correo_a = f"dupla{suf}@itla.edu.do"
-        correo_b = f"duplb{suf}@gmail.com"
+        correo_a = correo_unico("@itla.edu.do")
+        correo_b = correo_unico()
         nombre_a = f"Usuario A {suf}"
         nombre_b = f"Usuario B {suf}"
         self._crear(driver, nombre_a, correo_a, "809-555-1000")
@@ -63,7 +63,7 @@ class TestEditarUsuario:
 
     def test_editar_usuario_nombre_vacio(self, driver):
         suf = unique_suffix()
-        correo = f"limite{suf}@itla.edu.do"
+        correo = correo_unico("@itla.edu.do")
         nombre = f"Usuario Limite {suf}"
         self._crear(driver, nombre, correo, "809-555-3000")
         self._buscar_editar(driver, nombre)

diff --git a/tests/test_eliminar_usuario.py b/tests/test_eliminar_usuario.py
@@ -1,7 +1,7 @@
 import time
 import pytest
 from selenium.webdriver.common.by import By
-from conftest import BASE_URL, logged_in, wait_for_text, wait_for_element, click_submit
+from conftest import BASE_URL, logged_in, wait_for_text, wait_for_element, click_submit, correo_unico
 
 
 def unique_suffix():
@@ -36,7 +36,7 @@ class TestEliminarUsuario:
     def test_eliminar_usuario_correcto(self, driver):
         suf = unique_suffix()
         nombre = f"Usuario a Borrar {suf}"
-        correo = f"borrar{suf}@gmail.com"
+        correo = correo_unico()
         self._crear(driver, nombre, correo, "809-555-7777")
         self._clic_eliminar(driver, nombre)
         wait_for_text(driver, "Usuario eliminado exitosamente.")
@@ -52,7 +52,7 @@ class TestEliminarUsuario:
     def test_eliminar_usuario_cancelado(self, driver):
         suf = unique_suffix()
         nombre = f"Usuario Cancelado {suf}"
-        correo = f"cancelar{suf}@itla.edu.do"
+        correo = correo_unico("@itla.edu.do")
         self._crear(driver, nombre, correo, "809-555-8888")
         self._clic_eliminar(driver, nombre, confirmar=False)
         driver.get(f"{BASE_URL}/usuarios?q={nombre}")

diff --git a/tests/conftest.py b/tests/conftest.py
@@ -1,4 +1,5 @@
 import os
+import random
 import pytest
 from selenium import webdriver
 from selenium.webdriver.chrome.service import Service
@@ -14,6 +15,20 @@ ADMIN_USERNAME = "admin"
 ADMIN_PASSWORD = "admin123"
 PROJECT_ROOT = os.path.dirname(os.path.dirname(os.path.abspath(__file__)))
 SCREENSHOT_DIR = os.path.join(PROJECT_ROOT, "screenshots")
+
+NOMBRES = [
+    "juan", "maria", "carlos", "ana", "luis", "carmen", "pedro", "laura",
+    "diego", "sofia", "andres", "valeria", "roberto", "diana", "oscar",
+]
+
+APELLIDOS = [
+    "perez", "garcia", "martinez", "rodriguez", "sanchez", "diaz", "flores",
+    "reyes", "castillo", "vargas", "torres", "ramirez", "gomez", "ruiz",
+]
+
+
+def correo_unico(dominio="@gmail.com"):
+    return f"{random.choice(NOMBRES)}.{random.choice(APELLIDOS)}{random.randint(10, 99)}{dominio}"
 
 
 def _driver_options():

diff --git a/tests/test_buscar_usuario.py b/tests/test_buscar_usuario.py
@@ -1,11 +1,7 @@
 import time
 import pytest
 from selenium.webdriver.common.by import By
-from conftest import BASE_URL, logged_in, wait_for_text, wait_for_element, click_submit
-
-
-def unique_email(prefix="buscar"):
-    return f"{prefix}{int(time.time() * 1000)}@gmail.com"
+from conftest import BASE_URL, logged_in, wait_for_text, wait_for_element, click_submit, correo_unico
 
 
 @pytest.mark.usefixtures("logged_in")
@@ -29,7 +25,7 @@ class TestBuscarUsuario:
 
     def test_buscar_usuario_encontrado(self, driver):
         nombre = f"Persona Busqueda {int(time.time())}"
-        correo = unique_email()
+        correo = correo_unico()
         self._crear(driver, nombre, correo, "809-555-9000")
         self._buscar(driver, nombre)
         wait_for_text(driver, nombre)

diff --git a/tests/test_listar_usuarios.py b/tests/test_listar_usuarios.py
@@ -1,7 +1,7 @@
 import time
 import pytest
 from selenium.webdriver.common.by import By
-from conftest import BASE_URL, logged_in, wait_for_text, wait_for_element, click_submit
+from conftest import BASE_URL, logged_in, wait_for_text, wait_for_element, click_submit, correo_unico
 
 
 @pytest.mark.usefixtures("logged_in")
@@ -9,7 +9,7 @@ class TestListarUsuarios:
 
     def test_listar_usuario_creado(self, driver):
         nombre = f"Listado Usuario {int(time.time())}"
-        correo = f"listado{int(time.time() * 1000)}@itla.edu.do"
+        correo = correo_unico("@itla.edu.do")
         driver.get(f"{BASE_URL}/usuarios/crear")
         wait_for_element(driver, By.ID, "nombre")
         driver.find_element(By.ID, "nombre").send_keys(nombre)
